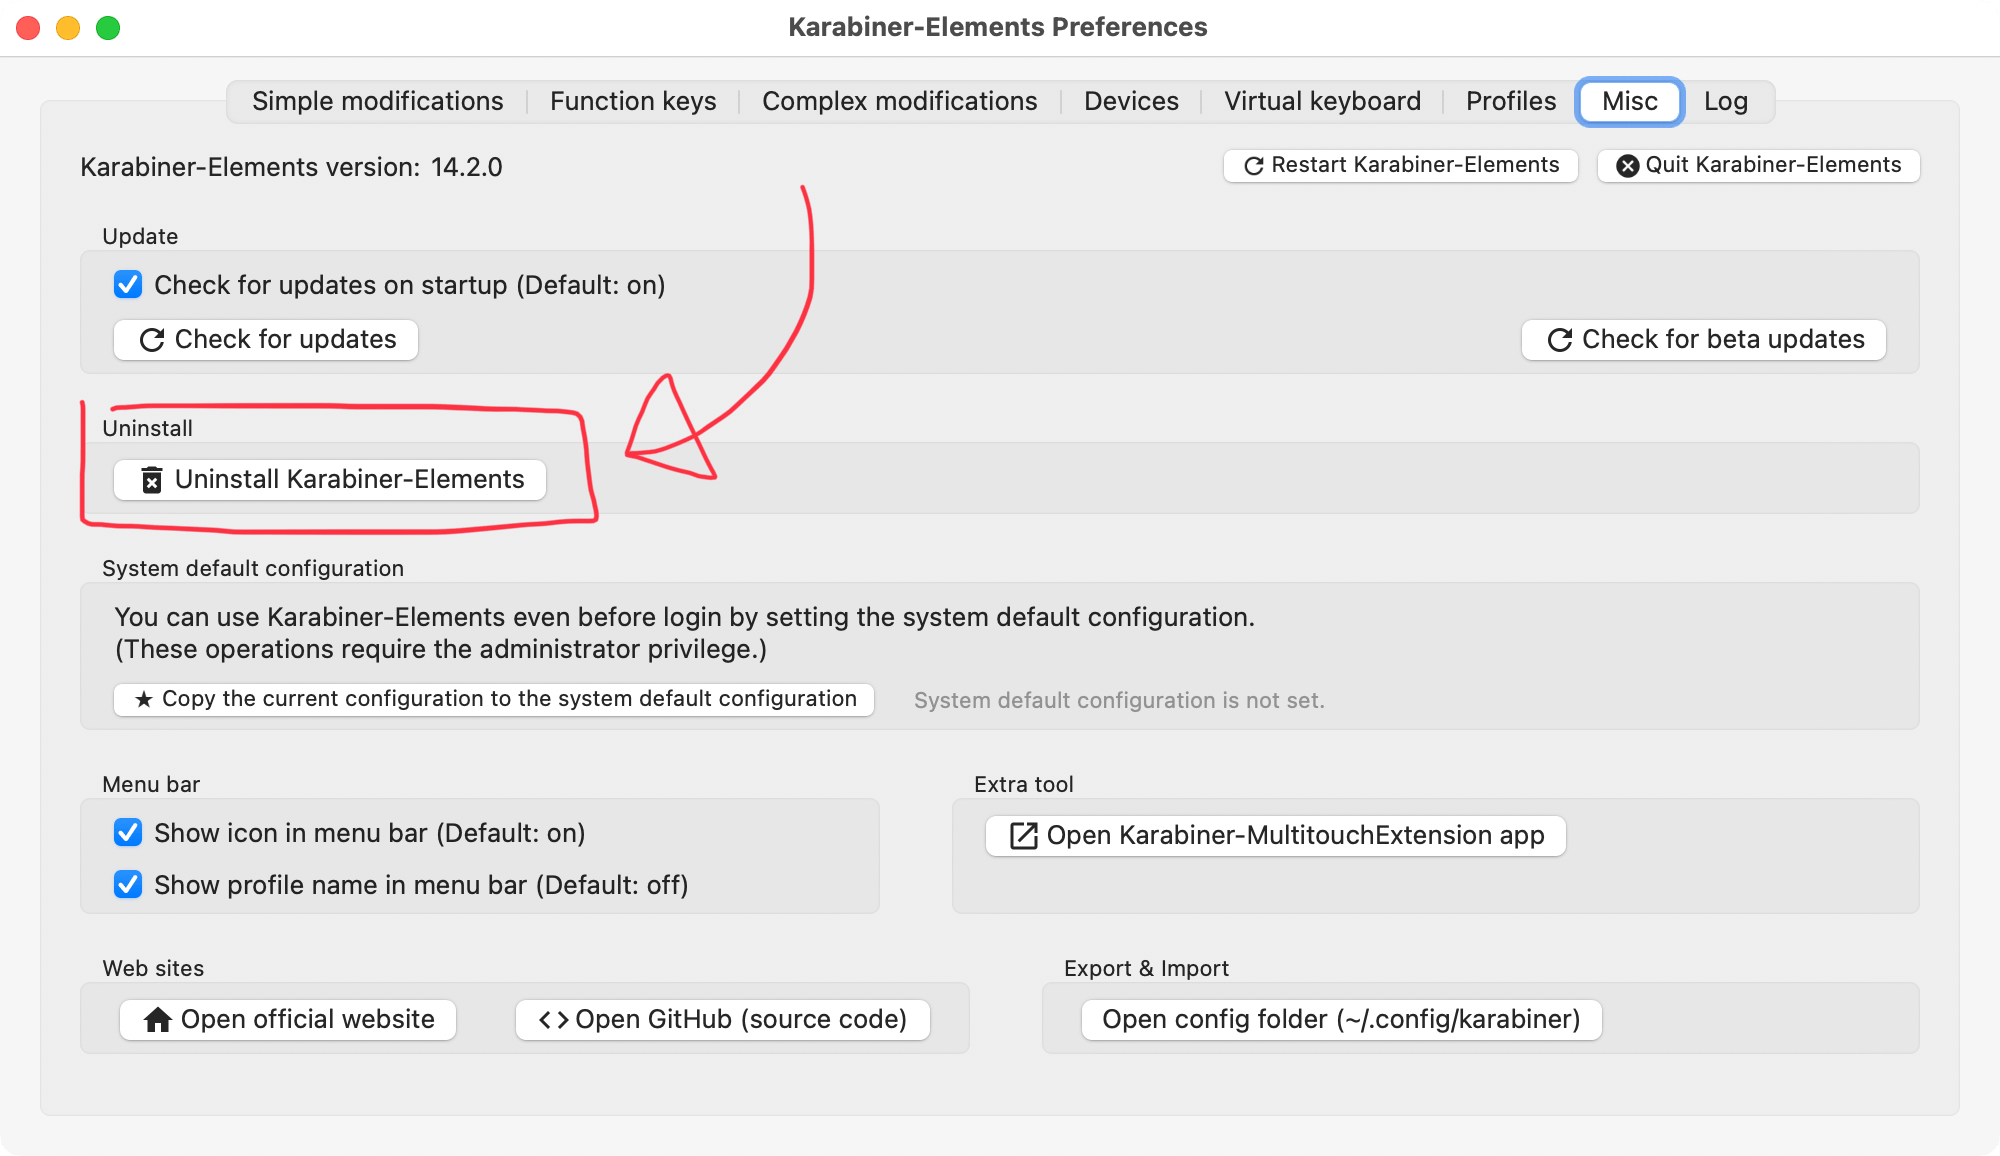
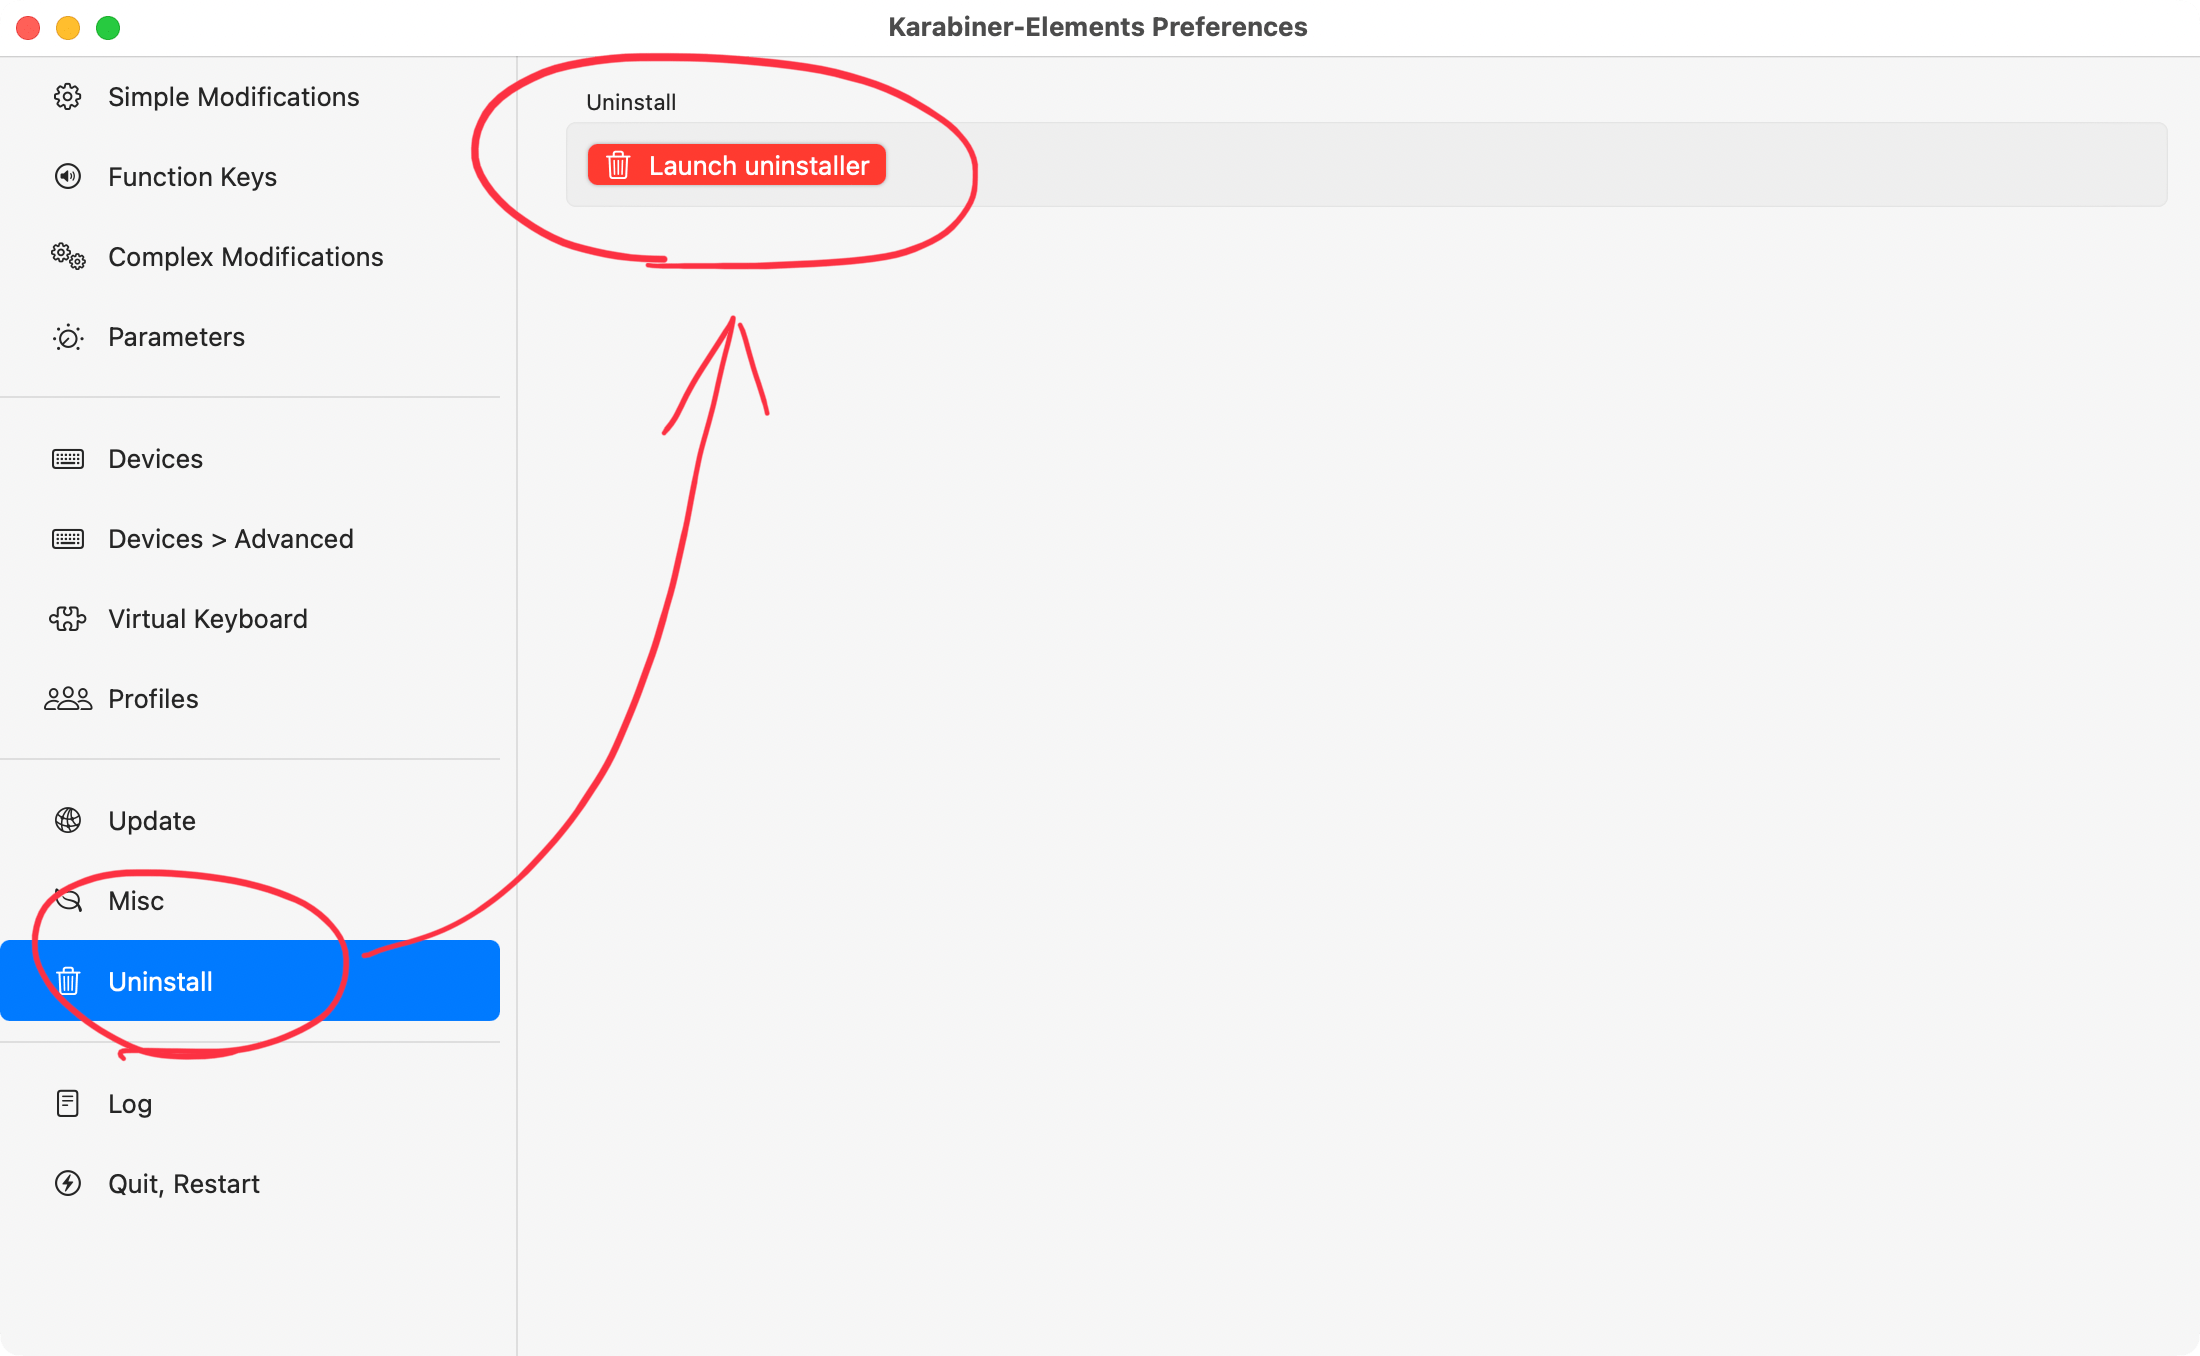
Update uninstall

diff --git a/sites/karabiner-elements/content/en/docs/manual/operation/uninstall/index.md b/sites/karabiner-elements/content/en/docs/manual/operation/uninstall/index.md
@@ -6,7 +6,7 @@ weight: 200
 Karabiner-Elements provides built-in uninstaller.<br />
 Use the uninstaller to remove Karabiner-Elements from your system.
 
-You can launch the uninstaller from "Uninstall Karabiner-Elements" button on Misc tab.
+You can launch the uninstaller from "Launch uninstaller" button on Uninstall tab.
 {{< local-image src="images/uninstall-button@2x.png" >}}
 
 Then, follow the instruction of the dialog. (The uninstaller ask your administrator password in order to remove files.)
@@ -38,5 +38,13 @@ rm: /Applications/Karabiner-Elements.app: Operation not permitted
 Karabiner-Elements forces you to use uninstaller to remove files in order to ensure remove files outside /Applications.
 
 See [Installed files](/docs/help/advanced-topics/installed-files/) to confirm the files.
+
+{{% /alert %}}
+
+{{% alert title="Manual uninstallation" color="danger" %}}
+
+If you want to remove files without uninstaller, unlock app files from command line with [this instruction](/docs/help/advanced-topics/lock-icon/#why-these-files-are-protected).
+
+And then, remove [installed files](/docs/help/advanced-topics/installed-files/) by hand, and reboot your Mac.
 
 {{% /alert %}}
